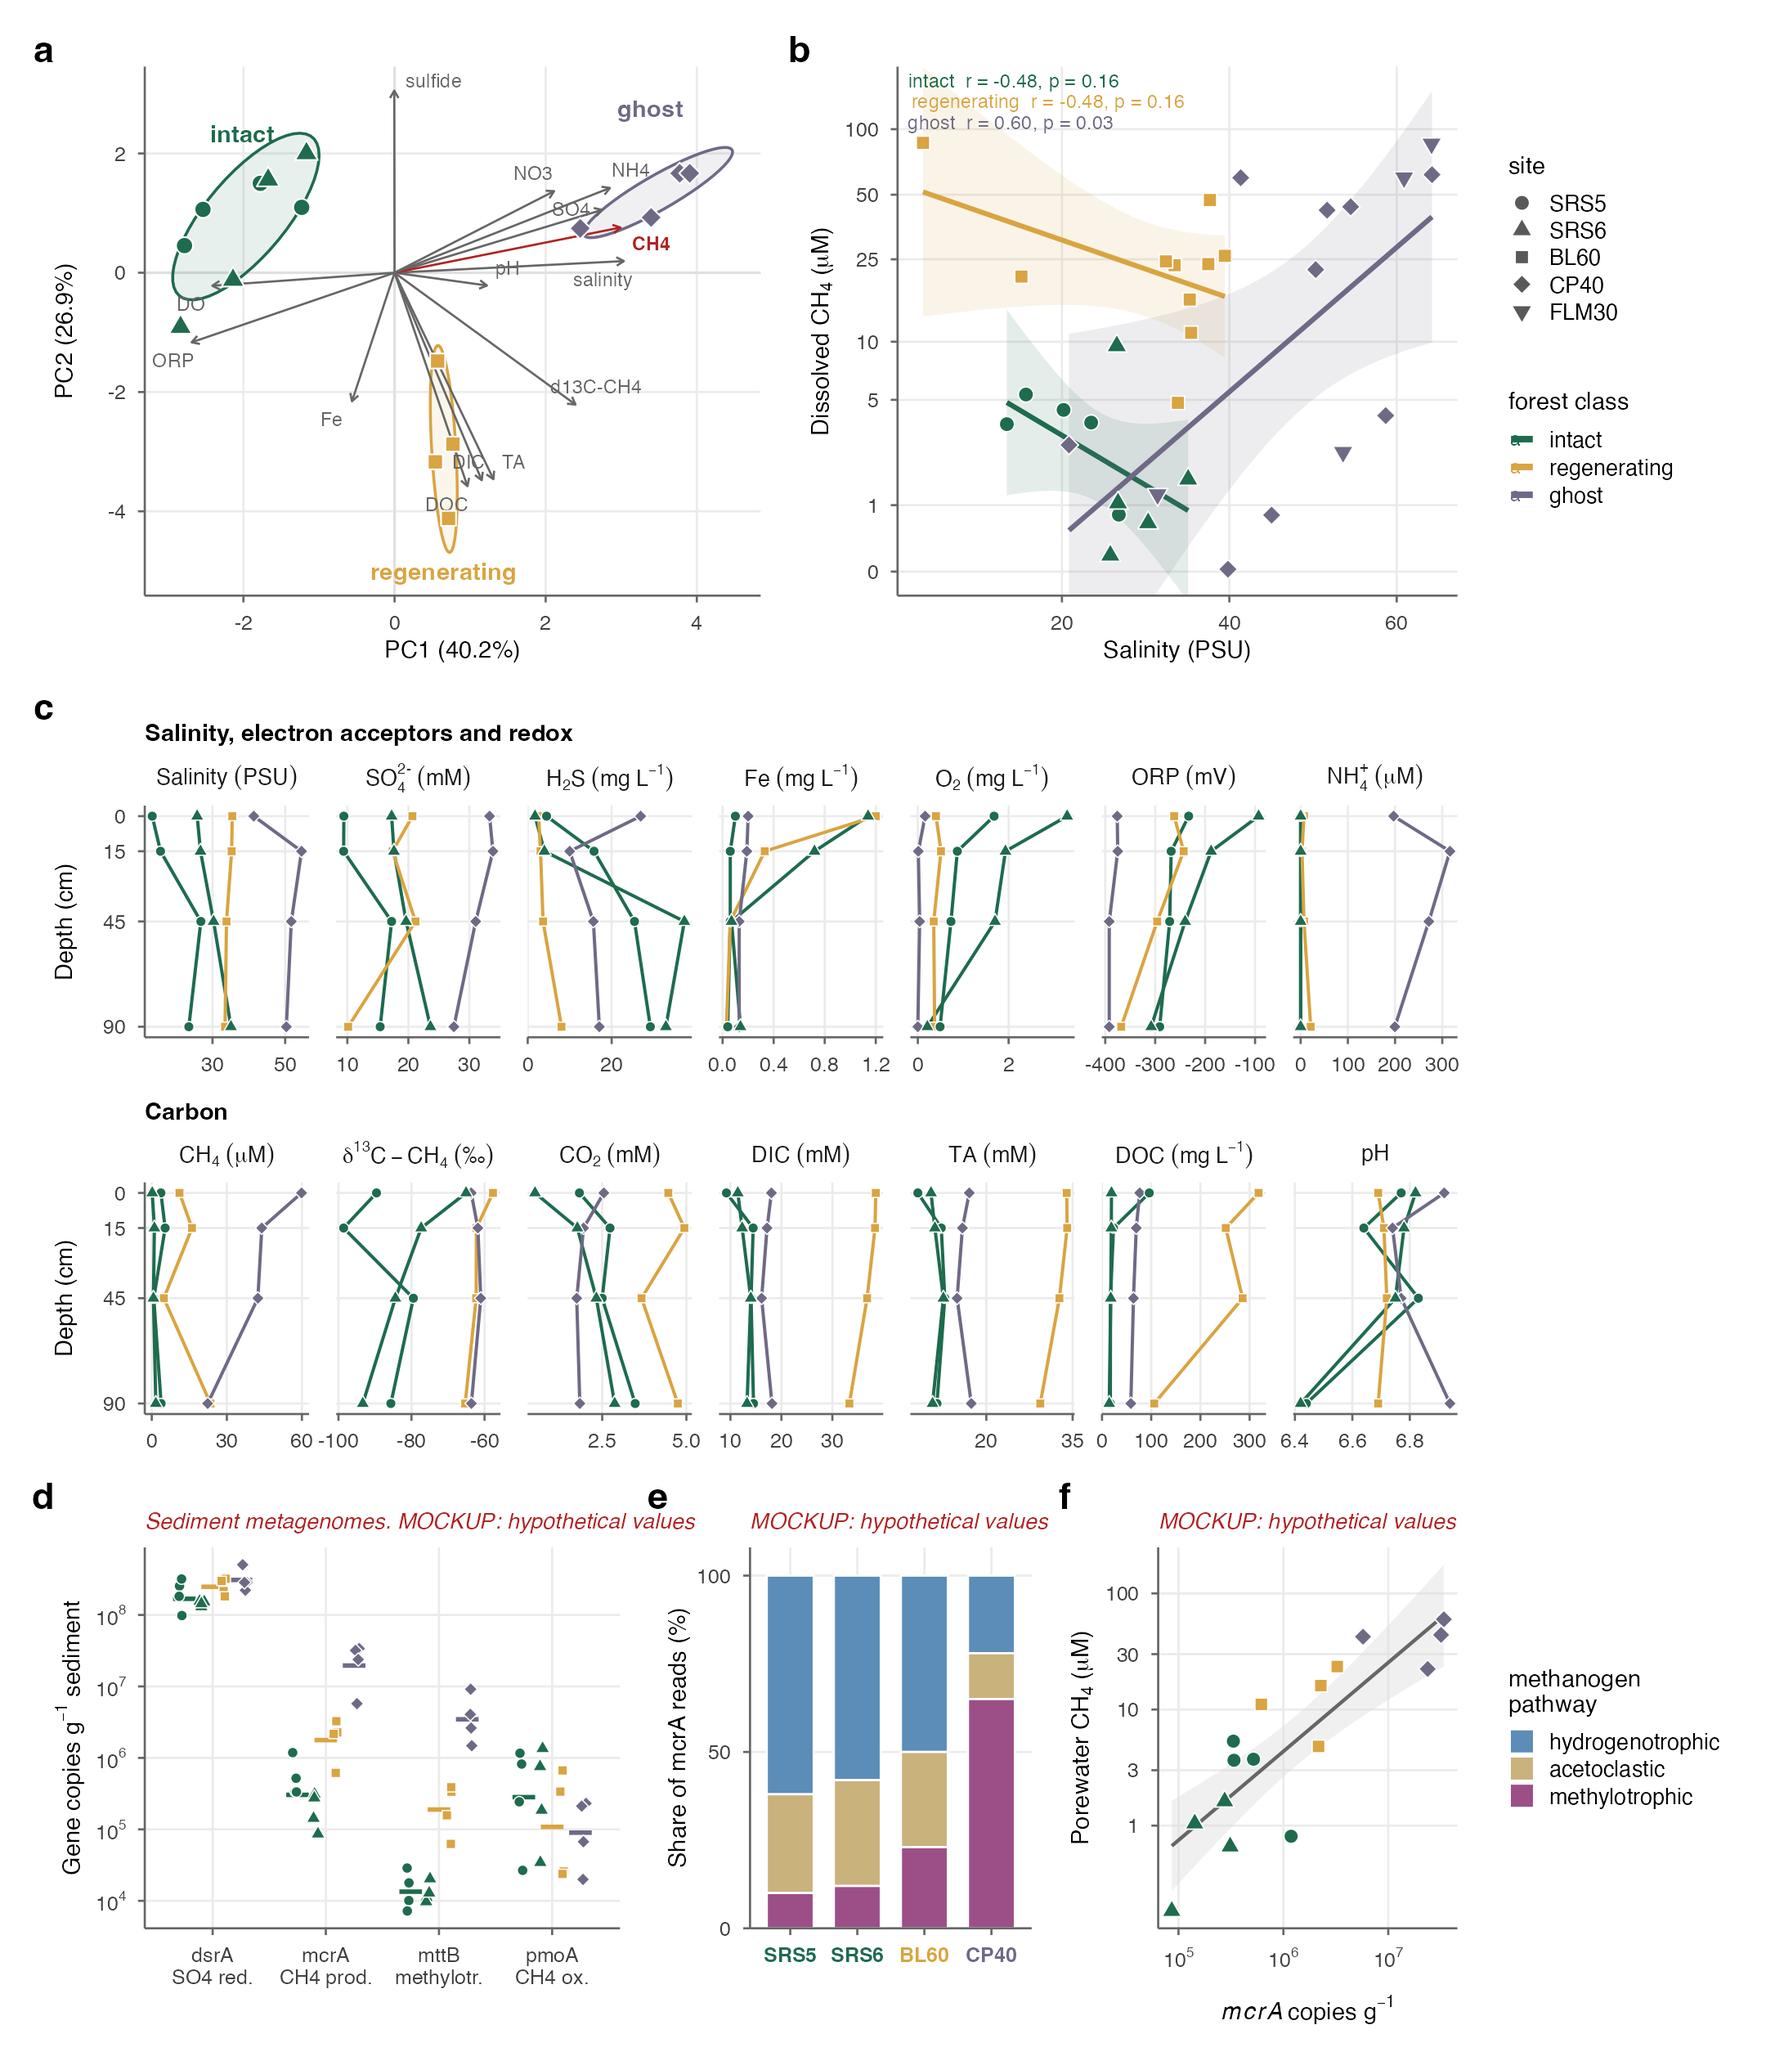
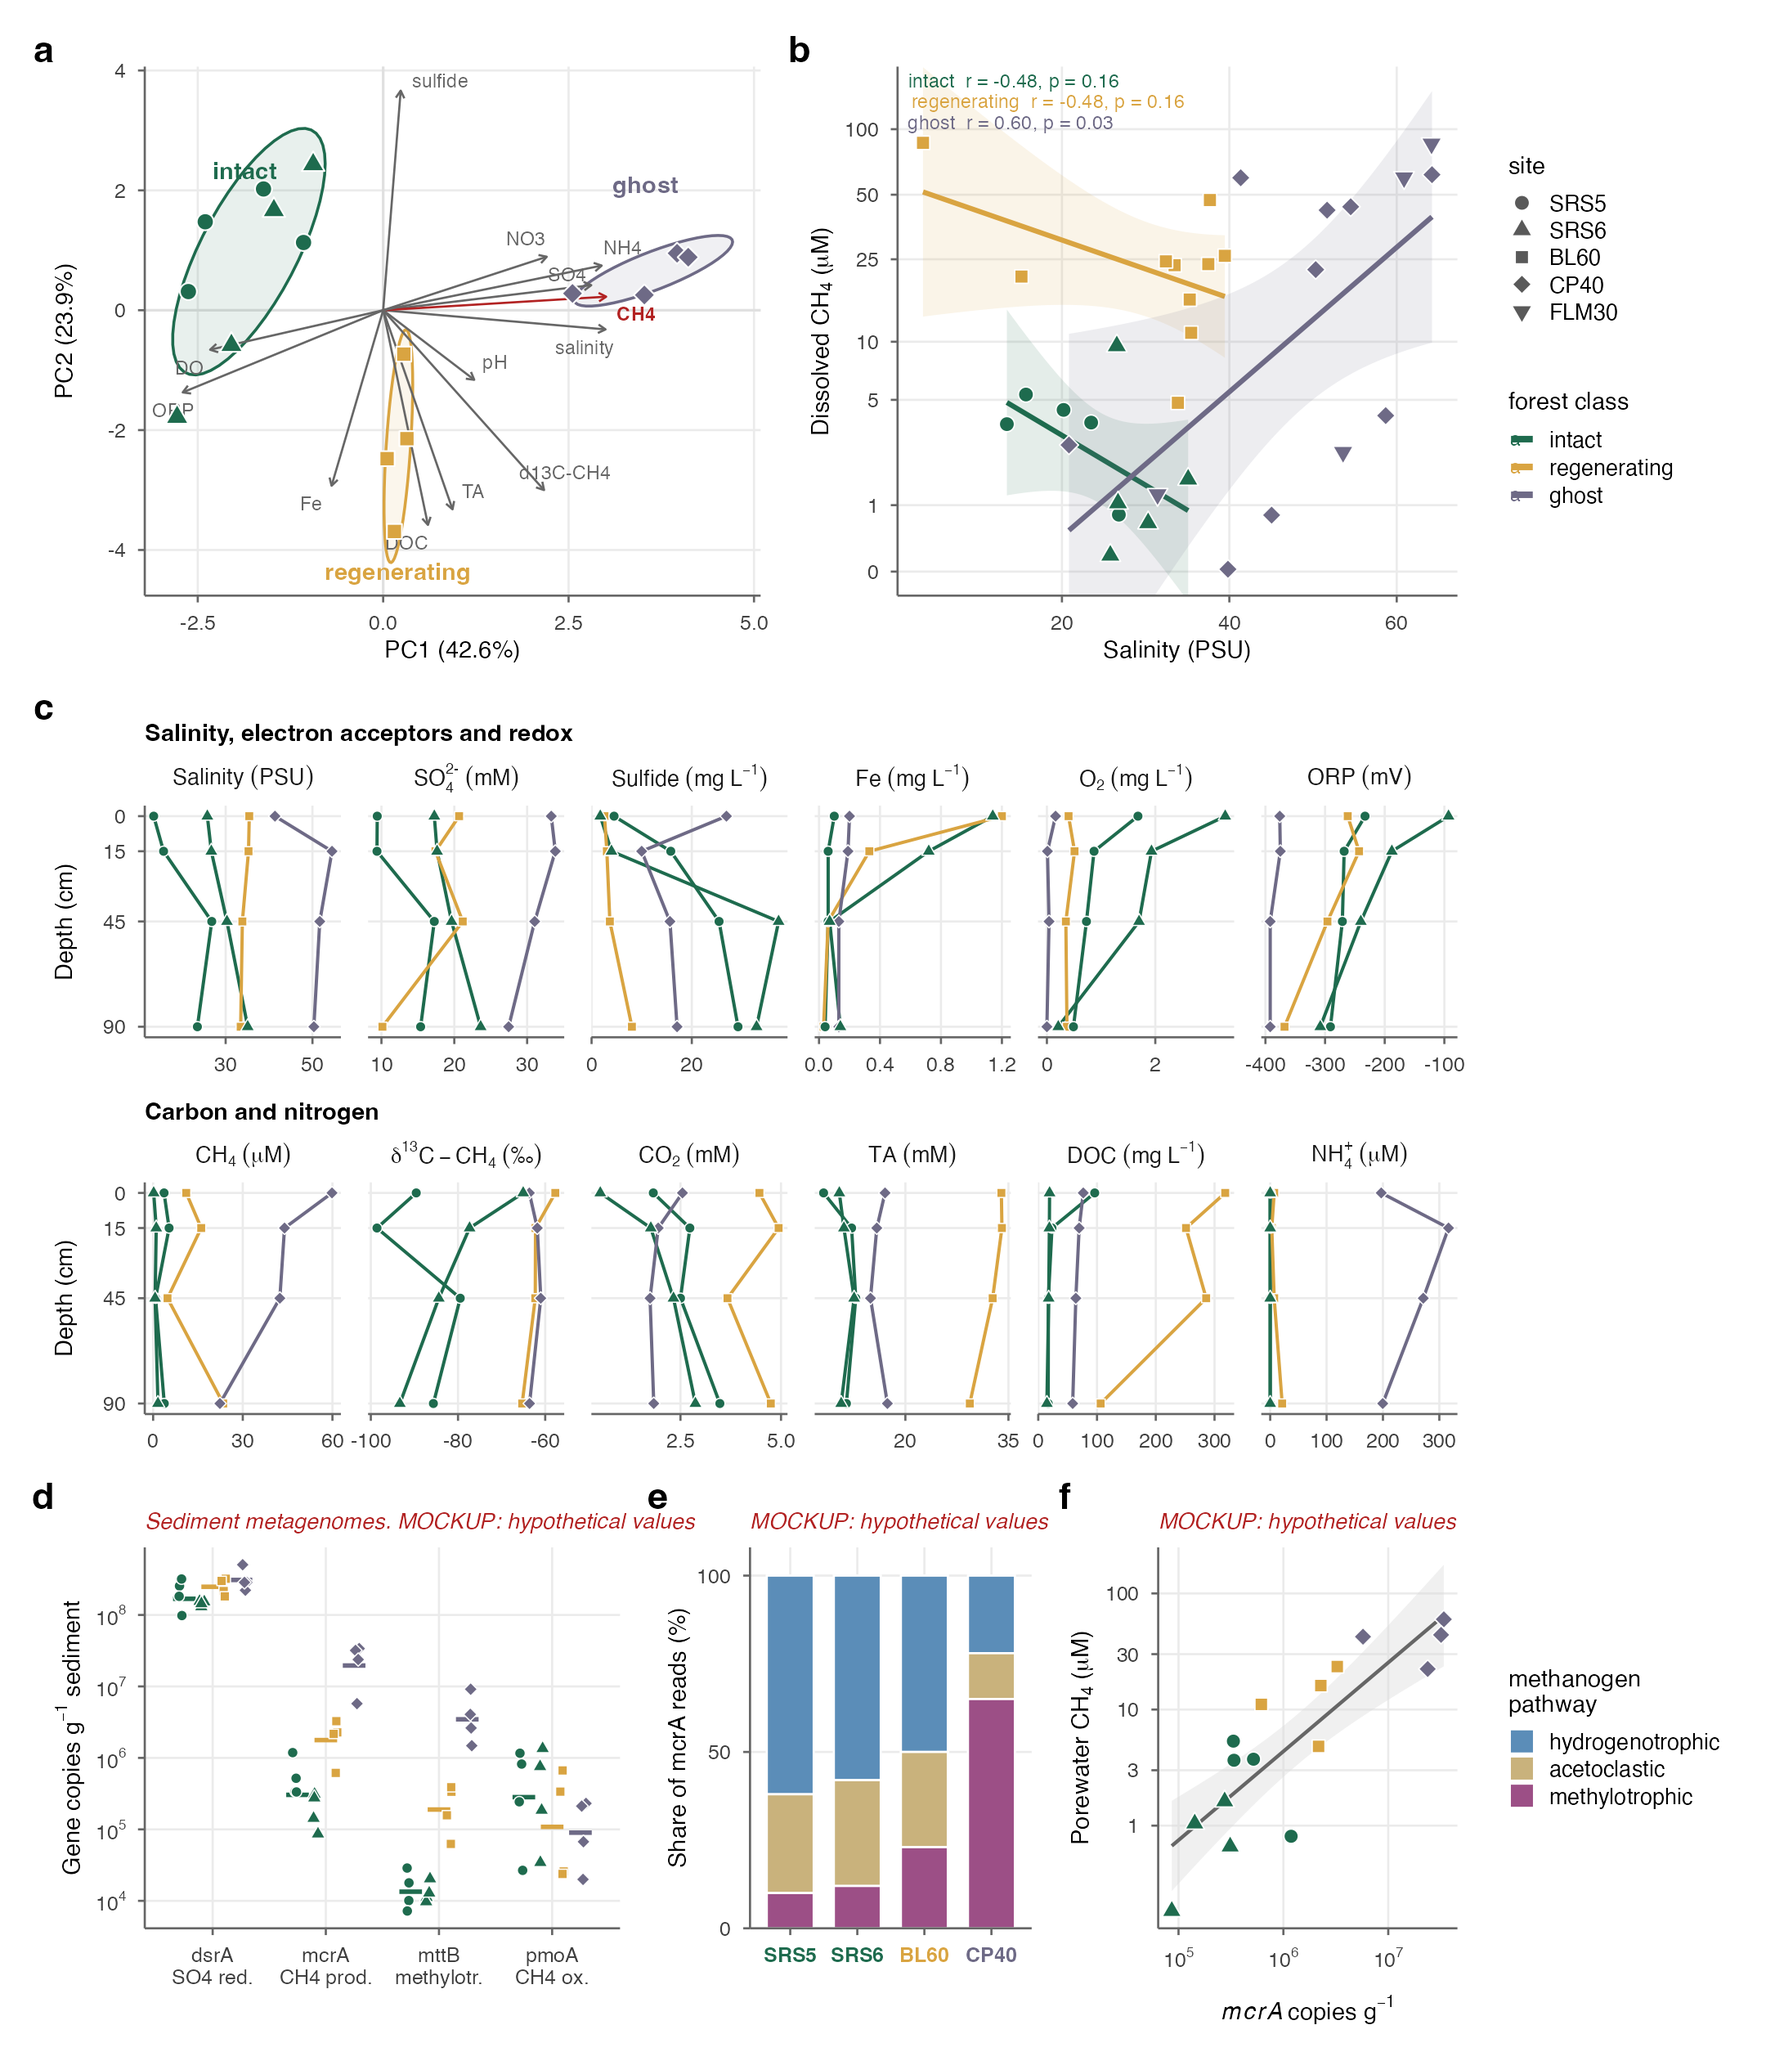
Fig 4: 12 measured profiles (drop derived DIC and pH), PCA back to 13 variables; sulfide/iron described as total dissolved

diff --git a/manuscript/drafts/manuscript_NCC_draft.md b/manuscript/drafts/manuscript_NCC_draft.md
@@ -110,7 +110,7 @@ Saline mangroves are therefore a larger and more disturbance-sensitive methane s
 
 **Figure 3 | Stand budgets and their independent closure.** (a) Airborne CH4 and midday CO2 for intact and ghost forest by deployment _[PLACEHOLDER — two-class values for all five deployments including July 2024 pending]_. (b) Annual stand budgets: CH4 and net CO2 exchange (g C) with Monte Carlo 95% intervals; intact net exchange beside the tower-based estimate (Barr et al. 2010). (c) Share of stand CH4 and (d) share of stand respiration (CO2) by component for intact and ghost forest by campaign. (e) Stand CH4 and (f) stand CO2 budgets stacked by component (CO2: respiration above zero, tower gross primary production below), with bottom-up totals or net exchange (white diamonds, Monte Carlo 95% intervals) beside airborne eddy covariance (triangles; two-class disaggregation; March 2023 = mean of the February and April 2023 deployments; CO2 converted to daily values) and the US-Skr tower (squares; intact; campaign-month net exchange). All intervals 95% (airborne ±1.96 SE _[CHECK: confirm with E. Delaria what the reported uncertainty represents]_); in (e) the ghost October airborne interval extends beyond the axis. Per-site budgets are in Extended Data.
 
-**Figure 4 | A geochemical regime shift.** Colour shows forest class and symbol shows site throughout. (a) Principal-components analysis of October 2025 porewater chemistry (0–90 cm at SRS5, SRS6, BL60 and CP40; 14 variables, centred and scaled; one core per site, so descriptive). Ellipses are 68% class ellipses; arrows are variable loadings, with CH4 in red. (b) Porewater salinity versus dissolved CH4 across all three sampling rounds (October 2022, March 2023, October 2025; site × depth means, including FLM30). Lines are class regressions of log(1 + CH4) on salinity, shown with 95% confidence bands and Pearson r: negative in intact and regenerating forest, positive in ghost forest. (c) October 2025 depth profiles of salinity, electron acceptors and redox (top row) and carbon species (bottom row). DIC is calculated from pH and alkalinity. (d–f) _[MOCKUP — sediment metagenomes: marker-gene abundance per g sediment (dsrA, mcrA, mttB, pmoA); methanogen pathway composition; mcrA versus porewater CH4. Values are hypothetical placeholders.]_
+**Figure 4 | A geochemical regime shift.** Colour shows forest class and symbol shows site throughout. (a) Principal-components analysis of October 2025 porewater chemistry (0–90 cm at SRS5, SRS6, BL60 and CP40; 13 variables, centred and scaled; one core per site, so descriptive). Ellipses are 68% class ellipses; arrows are variable loadings, with CH4 in red. (b) Porewater salinity versus dissolved CH4 across all three sampling rounds (October 2022, March 2023, October 2025; site × depth means, including FLM30). Lines are class regressions of log(1 + CH4) on salinity, shown with 95% confidence bands and Pearson r: negative in intact and regenerating forest, positive in ghost forest. (c) October 2025 depth profiles of salinity, electron acceptors and redox (top row), and carbon and nitrogen (bottom row). (d–f) _[MOCKUP — sediment metagenomes: marker-gene abundance per g sediment (dsrA, mcrA, mttB, pmoA); methanogen pathway composition; mcrA versus porewater CH4. Values are hypothetical placeholders.]_
 
 **Figure 5 | Climate consequence.** (a) Net forcing (net CO2 exchange + CH4 as CO2-equivalents) at GWP20, GWP100 and GWP* for intact forest (vertical exchange and net ecosystem carbon balance) and ghost forest. _[TO BUILD in the new style from plot_closure.]_ (b) Induced CH4 emission from Caribbean mangrove that showed little recovery after the 2017 hurricane season, per 0.5° cell, with the tracks of Hurricanes Irma and Maria. (c) The resulting regional added forcing split into lost CO2 uptake and induced CH4 emission at GWP20, GWP100 and GWP*.
 
@@ -158,7 +158,7 @@ _[PLACEHOLDER — Methods: sediment sampling (sites, depths, dates, storage), DN
 
 ### Porewater geochemistry
 
-Porewater was sampled in three rounds. During the October 2022 and March 2023 flux campaigns, porewater (mostly ~40 cm; also 0, 15 and 100 cm at some sites) and surface water were collected at the flux sites for dissolved CH4 and CO2 (headspace equilibration, gas chromatography) and salinity _[CHECK: sampler, headspace protocol and GC instrument for the 2022-2023 samples, run December 2023]_. In October 2025, depth profiles (surface water and 0, 15, 45 and 90 cm) were collected at four sites (SRS5, SRS6, BL60, CP40) with MHE PushPoint samplers for the full chemistry suite. In the profiles, temperature, pH, conductivity, dissolved oxygen and oxidation–reduction potential were measured in the field (Hanna HI98494); sulfide and ferrous iron colorimetrically (Hach DR900). Dissolved CH4 and CO2 and their stable carbon isotopes were measured by headspace equilibration on a Picarro G2201-i; dissolved organic carbon, major ions and total alkalinity at the Yale Analytical and Stable Isotope Center (Supplementary Methods S.M11). The porewater PCA and inorganic nitrogen use the October 2025 profiles; site dissolved CH4 and the salinity-methane relationship use all three rounds.
+Porewater was sampled in three rounds. During the October 2022 and March 2023 flux campaigns, porewater (mostly ~40 cm; also 0, 15 and 100 cm at some sites) and surface water were collected at the flux sites for dissolved CH4 and CO2 (headspace equilibration, gas chromatography) and salinity _[CHECK: sampler, headspace protocol and GC instrument for the 2022-2023 samples, run December 2023]_. In October 2025, depth profiles (surface water and 0, 15, 45 and 90 cm) were collected at four sites (SRS5, SRS6, BL60, CP40) with MHE PushPoint samplers for the full chemistry suite. In the profiles, temperature, pH, conductivity, dissolved oxygen and oxidation–reduction potential were measured in the field (Hanna HI98494); total dissolved sulfide and total dissolved iron colorimetrically (Hach DR900). Dissolved CH4 and CO2 and their stable carbon isotopes were measured by headspace equilibration on a Picarro G2201-i; dissolved organic carbon, major ions and total alkalinity at the Yale Analytical and Stable Isotope Center (Supplementary Methods S.M11). The porewater PCA and inorganic nitrogen use the October 2025 profiles; site dissolved CH4 and the salinity-methane relationship use all three rounds.
 
 ### Net radiative forcing and landscape scaling
 

diff --git a/manuscript/SI/manuscript_NCC_SI.md b/manuscript/SI/manuscript_NCC_SI.md
@@ -64,7 +64,7 @@ Tower GPP was obtained by partitioning observed half-hourly NEE. Ecosystem respi
 
 ### S.M11 Porewater geochemistry
 
-Porewater was sampled in three rounds. During the October 2022 and March 2023 flux campaigns, porewater (mostly ~40 cm; also 0, 15 and 100 cm at some sites) and surface water were collected at the flux sites for dissolved CH4 and CO2 (headspace equilibration, gas chromatography) and salinity _[CHECK: sampler, headspace protocol and GC instrument for the 2022-2023 samples, run December 2023]_. In October 2025, depth profiles (surface water and 0, 15, 45 and 90 cm below the sediment surface) were collected at four sites (SRS5, SRS6, BL60, CP40) with MHE PushPoint samplers for the full chemistry suite. The porewater PCA and inorganic nitrogen use the October 2025 profiles; site dissolved CH4 and the salinity-methane relationship (Fig. 4b) combine all three rounds (n per class and round in output/data_products/porewater_salinity_ch4_correlations.csv). In the profiles, temperature, pH, electrical conductivity, dissolved oxygen and oxidation–reduction potential were measured in the field (Hanna HI98494). Sulfide and ferrous iron were determined colorimetrically in the field immediately after sampling (Hach DR900; sulfide methylene-blue method, reagents 1816/1817; iron FerroVer, reagent 2105769). Dissolved CH4 and CO2 concentrations and stable carbon isotopes (δ13C-CH4, δ13C-CO2) were measured by headspace equilibration in syringes on a Picarro G2201-i cavity ring-down spectrometer with SAM autosampler and ultra-zero-air carrier at Yale University. Dissolved organic carbon (Shimadzu TOC), major ions (sulfate, chloride, nitrate, phosphate; Metrohm ion chromatograph) and total alkalinity (titration) were measured at the Yale Analytical and Stable Isotope Center (YASIC). Dissolved inorganic nitrogen (NO3-N and NH4-N) was measured at Yale [PLACEHOLDER — method, instrument, detection limit, and any dilution before analysis (the IC anions were run 1:10), to confirm with the analytical lab]; values below detection are entered as zero. For context, our values were compared with long-term porewater NH4 and NO3 at SRS5 and SRS6 from FCE LTER monitoring (knb-lter-fce.1171.16; mostly 30 cm, December 2000 to September 2024; Supplementary Table S11).
+Porewater was sampled in three rounds. During the October 2022 and March 2023 flux campaigns, porewater (mostly ~40 cm; also 0, 15 and 100 cm at some sites) and surface water were collected at the flux sites for dissolved CH4 and CO2 (headspace equilibration, gas chromatography) and salinity _[CHECK: sampler, headspace protocol and GC instrument for the 2022-2023 samples, run December 2023]_. In October 2025, depth profiles (surface water and 0, 15, 45 and 90 cm below the sediment surface) were collected at four sites (SRS5, SRS6, BL60, CP40) with MHE PushPoint samplers for the full chemistry suite. The porewater PCA and inorganic nitrogen use the October 2025 profiles; site dissolved CH4 and the salinity-methane relationship (Fig. 4b) combine all three rounds (n per class and round in output/data_products/porewater_salinity_ch4_correlations.csv). In the profiles, temperature, pH, electrical conductivity, dissolved oxygen and oxidation–reduction potential were measured in the field (Hanna HI98494). Total dissolved sulfide and total dissolved iron were determined colorimetrically in the field immediately after sampling (Hach DR900; sulfide methylene-blue method, reagents 1816/1817; iron FerroVer, reagent 2105769). Dissolved CH4 and CO2 concentrations and stable carbon isotopes (δ13C-CH4, δ13C-CO2) were measured by headspace equilibration in syringes on a Picarro G2201-i cavity ring-down spectrometer with SAM autosampler and ultra-zero-air carrier at Yale University. Dissolved organic carbon (Shimadzu TOC), major ions (sulfate, chloride, nitrate, phosphate; Metrohm ion chromatograph) and total alkalinity (titration) were measured at the Yale Analytical and Stable Isotope Center (YASIC). Dissolved inorganic nitrogen (NO3-N and NH4-N) was measured at Yale [PLACEHOLDER — method, instrument, detection limit, and any dilution before analysis (the IC anions were run 1:10), to confirm with the analytical lab]; values below detection are entered as zero. For context, our values were compared with long-term porewater NH4 and NO3 at SRS5 and SRS6 from FCE LTER monitoring (knb-lter-fce.1171.16; mostly 30 cm, December 2000 to September 2024; Supplementary Table S11).
 
 ### S.M12 Net radiative forcing and landscape scaling
 
